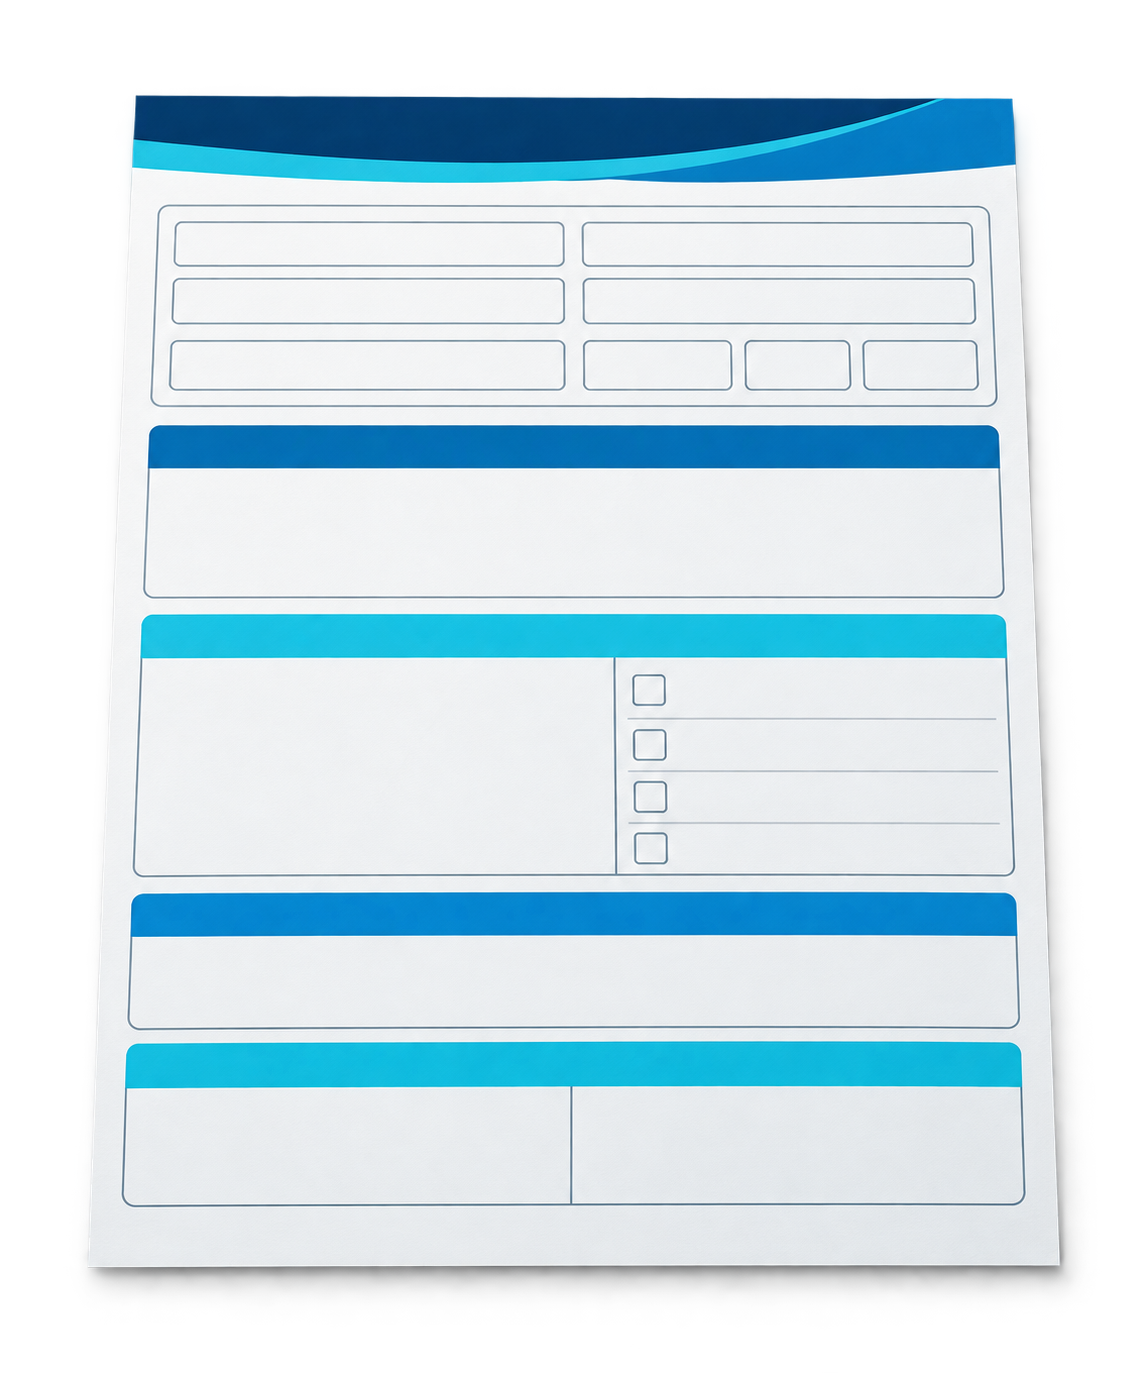
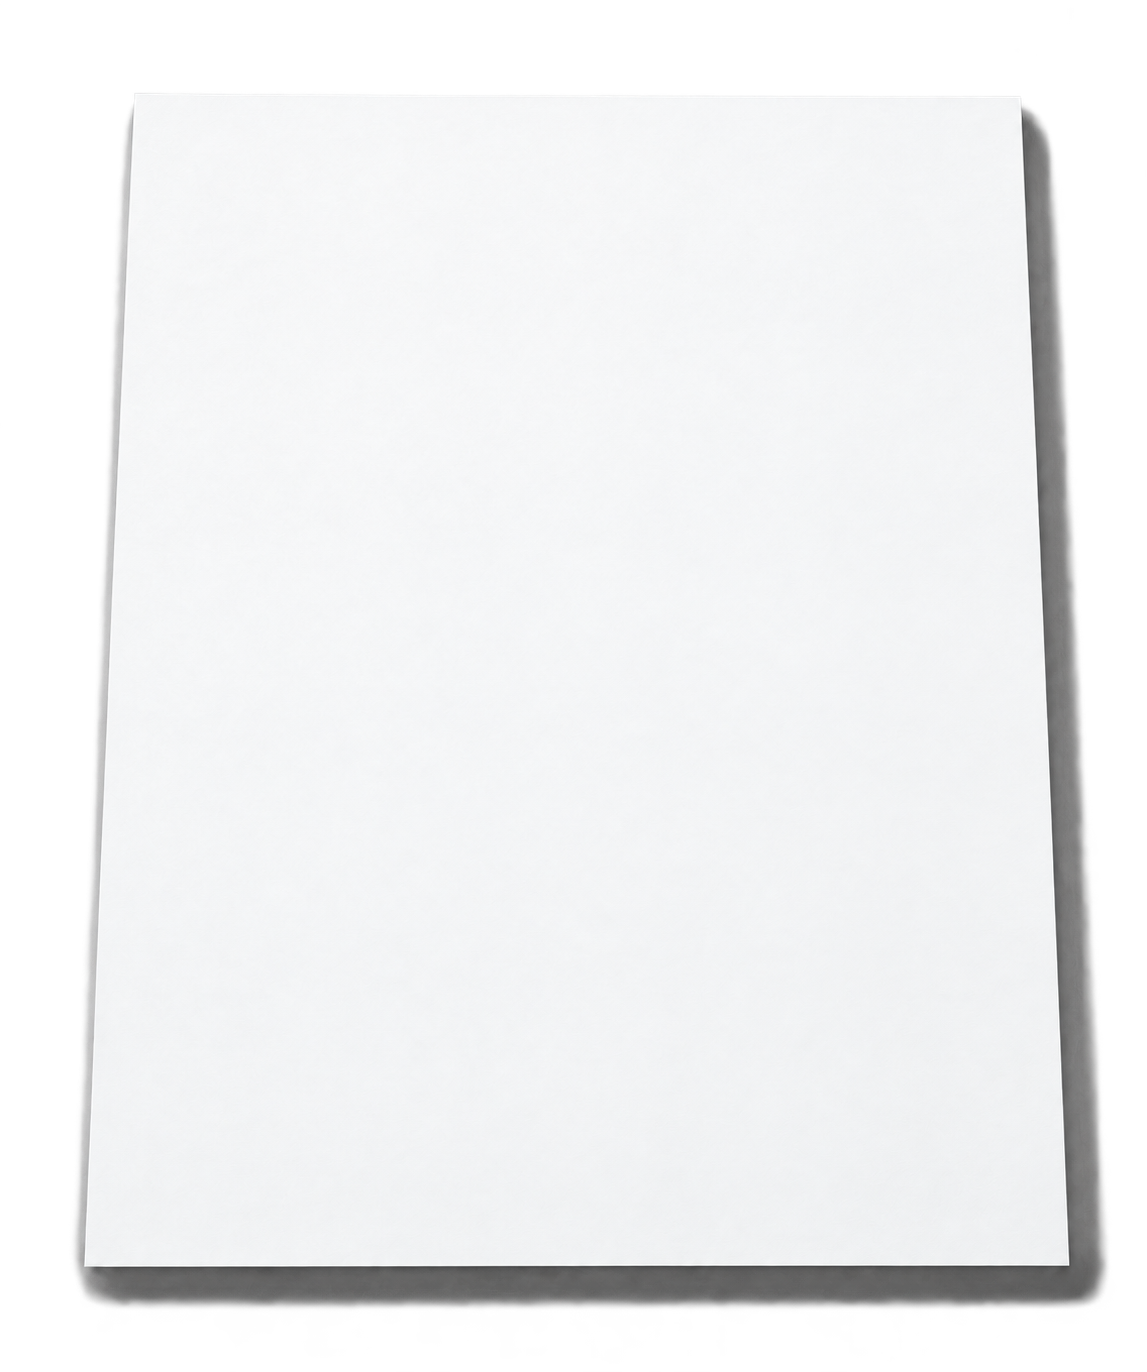
Refine Histology patient detail comparison

Changed region(s): [[0.0611, 0.0612, 0.9773, 0.9796], [0.4887, 0.8571, 0.5192, 0.8878]]

diff --git a/histology/game.js b/histology/game.js
@@ -242,6 +242,16 @@
       </div>`).join("");
   }
 
+  function specimenLabelFields(identity, mismatches = []) {
+    return [
+      ["name", identity.name],
+      ["id", identity.id]
+    ].map(([field, value]) => `
+      <div class="identity-field ${mismatches.includes(field) ? "mismatch" : ""}" data-field="${field}">
+        <strong>${escapeHtml(value)}</strong>${mismatchIcon(field, mismatches)}
+      </div>`).join("");
+  }
+
   function referencePanel() {
     const mismatches = state.mismatchFields;
     return `
@@ -260,14 +270,14 @@
         <img class="pot-tissue" src="assets/mission-1/skin-specimen-sample.png" alt="">
         <img class="pot-shell" src="assets/mission-1/skin-specimen-container-closed.png" alt="Sealed skin-specimen container">
         <img class="pot-label-art" src="assets/mission-1/specimen-container-label-blank.svg" alt="">
-        <div class="pot-label" aria-label="Specimen container label">${identityFields(identity, mismatches, true)}</div>
+        <div class="pot-label" aria-label="Specimen container label">${specimenLabelFields(identity, mismatches)}</div>
       </div>`;
   }
 
   function requestPaper(identity, mismatches) {
     return `
       <div class="paper-request">
-        <img src="assets/mission-1/paper-request-blank.png" alt="Histology paper request form">
+        <img src="assets/mission-1/paper-request-blank.png?v=2" alt="Histology paper request form">
         <div class="paper-fields">${identityFields(identity, mismatches, true)}</div>
       </div>`;
   }
@@ -307,7 +317,7 @@
 
   function guidanceText() {
     if (state.hintOpen) {
-      if (state.level === "junior") return "Check the name, ID no. and date of birth one line at a time on the monitor, container and paper request.";
+      if (state.level === "junior") return "Check the name and ID no. on all three surfaces, then check the date of birth on the monitor and paper request.";
       if (state.level === "explorer") return "The name may look right. Compare every digit of the ID no. as well as the birthday.";
       return "Read the ID no. character by character. A very small difference still means the sample must not be accepted.";
     }
@@ -961,7 +971,7 @@
     if (action === "inspect") {
       state.expandedIndex = Number(value);
       state.mismatchFields = [];
-      state.feedback = "Compare the name, ID no. and date of birth on all three surfaces.";
+      state.feedback = "Compare the name and ID no. on all three surfaces, then compare the date of birth on the monitor and paper request.";
       state.feedbackType = "info";
       pendingFocus = `[data-action="select-candidate"][data-value="${value}"]`;
       save(); render(); return;
@@ -984,7 +994,7 @@
         state.mismatchFields = mismatches;
         const message = mismatches.length === 1 && mismatches[0] === "id"
           ? "This ID no. is different. Compare these two numbers on the reference, specimen label and paper request."
-          : "These patient details conflict. Compare the name, ID no. and date of birth on the reference, specimen label and paper request.";
+          : "These patient details conflict. Compare the name and ID no. on all three surfaces, then compare the date of birth on the reference and paper request.";
         setFeedback(message, "try");
         return;
       }

diff --git a/histology/styles.css b/histology/styles.css
@@ -130,7 +130,7 @@ h1, h2, h3, p { margin-top: 0; }
 .reference-heading h2, .candidate-heading h2 { margin: 2px 0 0; color: var(--navy); font-size: clamp(1.15rem,2vw,1.55rem); }
 .monitor-wrap, .paper-request, .specimen-pot { position: relative; }
 .monitor-wrap > img, .paper-request > img, .specimen-pot > img { display: block; width: 100%; height: auto; }
-.monitor-screen { position: absolute; inset: 16% 8% 24%; display: flex; flex-direction: column; justify-content: center; gap: 3px; color: #164252; font-size: clamp(.64rem,.94vw,.9rem); }
+.monitor-screen { position: absolute; inset: -5% 12% 24%; display: flex; flex-direction: column; justify-content: center; gap: 3px; color: #164252; font-size: clamp(.64rem,.94vw,.9rem); }
 .identity-field { display: grid; grid-template-columns: minmax(70px,.8fr) 1.25fr auto; gap: 6px; align-items: center; border-radius: 7px; padding: 2px 5px; }
 .identity-field span { font-weight: 700; }
 .identity-field strong { overflow-wrap: anywhere; }
@@ -147,7 +147,8 @@ h1, h2, h3, p { margin-top: 0; }
 .pot-tissue { position: absolute; z-index: -1; inset: 31% 23% auto; width: 54% !important; }
 .pot-label-art { position: absolute; top: 39%; right: 15%; left: 15%; width: 70% !important; }
 .pot-label { position: absolute; top: 42%; right: 17%; left: 17%; display: grid; gap: 1px; color: #183846; font-family: Arial,sans-serif; font-size: clamp(.38rem,.62vw,.59rem); line-height: 1.03; text-align: center; }
-.pot-label .identity-field, .paper-fields .identity-field { grid-template-columns: .75fr 1.25fr auto; gap: 3px; padding: 1px 2px; }
+.pot-label .identity-field { grid-template-columns: 1fr auto; gap: 3px; padding: 1px 2px; }
+.paper-fields .identity-field { grid-template-columns: .75fr 1.25fr auto; gap: 3px; padding: 1px 2px; }
 .paper-request { align-self: center; filter: drop-shadow(0 5px 8px rgba(21,51,68,.2)); }
 .paper-fields { position: absolute; inset: 18% 9% 8%; display: flex; flex-direction: column; justify-content: center; gap: 4px; color: #293e48; font-family: Arial,sans-serif; font-size: clamp(.5rem,.77vw,.75rem); }
 .inspect-prompt { min-height: 35px; border-radius: 10px; padding: 9px; background: var(--navy); color: white; font-weight: 900; text-align: center; }

diff --git a/histology/index.html b/histology/index.html
@@ -7,7 +7,7 @@
   <meta name="description" content="Follow a patient skin specimen through all seven missions of The Histology Journey.">
   <title>The Histology Journey | SiTC Games</title>
   <link rel="icon" type="image/svg+xml" href="assets/shared/histology-game-icon.svg">
-  <link rel="stylesheet" href="styles.css?v=7">
+  <link rel="stylesheet" href="styles.css?v=8">
 </head>
 <body>
   <a class="skip-link" href="#app">Skip to the game</a>
@@ -26,6 +26,6 @@
     </main>
   </noscript>
   <script src="logic.js?v=7"></script>
-  <script src="game.js?v=7"></script>
+  <script src="game.js?v=8"></script>
 </body>
 </html>

diff --git a/histology/docs/MISSION_01_CHECK_PATIENT_DETAILS.md b/histology/docs/MISSION_01_CHECK_PATIENT_DETAILS.md
@@ -37,11 +37,13 @@ Each station contains:
 - one readable container label;
 - one paper request form that belongs to that container.
 
-The reference and every candidate surface display:
+The reference display and each paper request display:
 
 - patient name;
 - **ID no.**;
 - date of birth in `DD/MM/YYYY` format.
+
+Each specimen-container label displays only the patient's name value and ID value. Do not show the **Patient name** or **ID no.** field labels on the container, and do not show date of birth on the container.
 
 The reference may also show **Specimen: Skin** and **Requested investigation: Histology**. Non-essential clinical details may be visually obscured, but the three identity fields must remain readable.
 
@@ -96,7 +98,7 @@ mission reference date
   → correct and incorrect sample candidates
 ```
 
-The correct candidate's request and container label must match the reference exactly. An incorrect candidate's own request and container label must match each other.
+The correct candidate's paper request must match the reference exactly. Its container label must match the reference name and ID. An incorrect candidate's container name and ID must agree with its own paper request.
 
 ## Difficulty by level
 
@@ -115,12 +117,12 @@ The answer is correct only if all three identifiers match exactly after normalis
 Incorrect feedback:
 
 - One ID mismatch: **“This ID no. is different. Compare these two numbers on the reference, specimen label and paper request.”**
-- Several mismatches: **“These patient details conflict. Compare the name, ID no. and date of birth on the reference, specimen label and paper request.”**
+- Several mismatches: **“These patient details conflict. Compare the name and ID no. on all three surfaces, then compare the date of birth on the reference and paper request.”**
 
 On an incorrect answer:
 
 - keep the selected station expanded;
-- mark every conflicting field with text/icon and colour on the reference, container label, and paper request;
+- mark every conflicting field with text/icon and colour on each surface where that field appears; date-of-birth mismatches appear on the reference and paper request, not on the container label;
 - do not shuffle stations or regenerate any patient data;
 - do not relabel or accept the mismatched specimen;
 - do not count inspections or navigation as wrong answers.
@@ -159,12 +161,12 @@ Persist `missionStartedAt`, level, reference identity, candidates, candidate ord
 
 ## Acceptance checks
 
-- All three identifiers match on the correct reference, label, and request.
+- Name and ID match across the correct reference, container label, and paper request; date of birth matches between the reference and paper request.
 - Every generated ID has the required format and birth-year suffix.
 - The incorrect set differs only in the level-appropriate fields.
 - The correct station can appear on either side across new cases, but not move during a case.
 - Wrong selection highlights the exact fields on all relevant surfaces and stays open.
 - The rejected set cannot enter the rack or later missions.
 - Mouse, touch, tap-only, and keyboard-only paths all work.
-- Every visible identifier label says **ID no.**
+- Every visible ID field label says **ID no.**; the specimen-container label intentionally shows values without field labels.
 

diff --git a/histology/prompts/HISTOLOGY_MISSION_1_BUILD_PROMPT.md b/histology/prompts/HISTOLOGY_MISSION_1_BUILD_PROMPT.md
@@ -157,11 +157,13 @@ At minimum, the scene must contain:
 - the receiving/scanning rack;
 - a disabled **NEXT** action until all completion conditions are satisfied.
 
-Every reference and candidate surface must show:
+Every reference display and paper request must show:
 
 - patient name;
 - **ID no.**;
 - date of birth in `DD/MM/YYYY` format.
+
+Each specimen-container label must show only the patient name value and ID value. Do not show field labels or date of birth on the container label.
 
 The reference may also show **Specimen: Skin** and **Requested investigation: Histology**.
 
@@ -190,7 +192,7 @@ Export or otherwise expose the pure functions so they can be verified without ma
 - Randomise whether the correct set is left or right once when the case is created.
 - Never reshuffle the candidates during that case.
 - Both candidates must use the exact same container, lid, paper, tray, and presentation artwork.
-- A candidate's container label and paper request must agree with each other.
+- A candidate's container name and ID must agree with its paper request; date of birth remains on the paper request only.
 - Only **Select this sample** submits an answer.
 - Opening, closing, comparing, tapping, or missing a drag is not an incorrect scientific attempt.
 - Only one candidate may be expanded at a time.
@@ -202,7 +204,7 @@ On an incorrect selection:
 
 - keep the selected station expanded;
 - calculate mismatch fields from stored data;
-- highlight every conflicting field on the reference, specimen label, and paper request using colour plus text/icon;
+- highlight every conflicting field on each surface where it appears using colour plus text/icon; date-of-birth mismatches belong on the reference and paper request only;
 - show the exact field-specific feedback from the Mission 1 specification;
 - keep identities and candidate order unchanged;
 - allow immediate comparison and retry.
@@ -338,7 +340,7 @@ Perform and document all of the following before committing:
 - Generate many Junior, Explorer, and Challenge cases.
 - Every ID matches `^\d{4,7}[HL]$`.
 - Every ID's final two numeric digits match that person's birth-year suffix.
-- Correct data matches across reference, container label, and paper request.
+- Name and ID match across reference, container label, and paper request; date of birth matches between reference and paper request.
 - Incorrect container and paper agree with each other.
 - Each level differs only in its intended mismatch fields.
 - Correct and incorrect IDs are unique.
@@ -349,7 +351,7 @@ Perform and document all of the following before committing:
 - Each difficulty starts a valid case.
 - The correct sample appears on both left and right across new cases.
 - Inspecting and comparing does not submit an answer.
-- An incorrect selection stays open and highlights exact fields on all three surfaces.
+- An incorrect selection stays open and highlights exact fields on every surface where they appear.
 - Retry preserves identities and candidate order.
 - Correct selection enables only the accepted container for transfer.
 - Drag, tap/select, and keyboard transfer all complete the mission.
